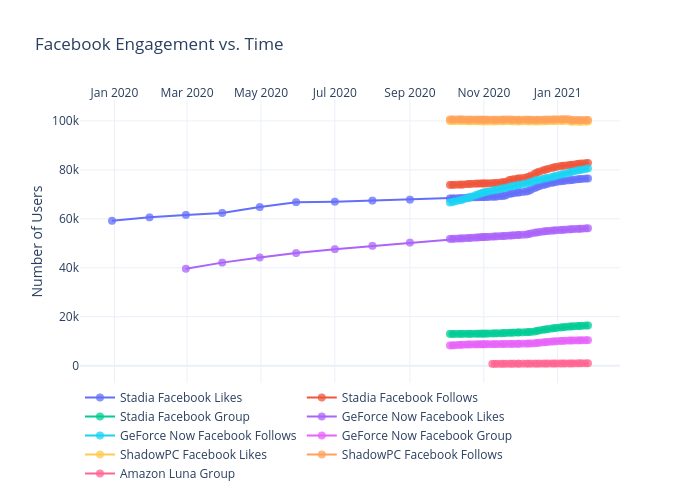
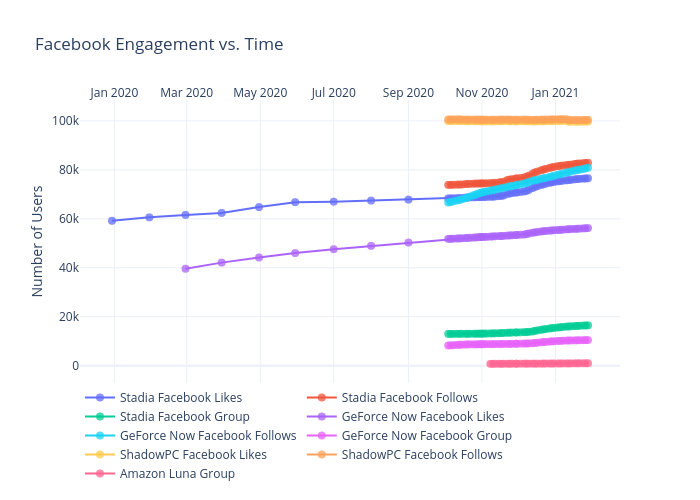
Add files via upload

diff --git a/facebook/figure.js b/facebook/figure.js
@@ -151,7 +151,8 @@ var figure = {
                 "76238",
                 "76316",
                 "76412",
-                "76492"
+                "76492",
+                "76551"
             ],
             "marker": {
                 "size": 8,
@@ -312,7 +313,8 @@ var figure = {
                 "82528",
                 "82622",
                 "82738",
-                "82819"
+                "82819",
+                "82885"
             ],
             "marker": {
                 "size": 8,
@@ -473,7 +475,8 @@ var figure = {
                 "16228",
                 "16292",
                 "16381",
-                "16419"
+                "16419",
+                "16481"
             ],
             "marker": {
                 "size": 8,
@@ -634,7 +637,8 @@ var figure = {
                 "55931",
                 "55988",
                 "56082",
-                "56140"
+                "56140",
+                "56214"
             ],
             "marker": {
                 "size": 8,
@@ -795,7 +799,8 @@ var figure = {
                 "79898",
                 "80105",
                 "80347",
-                "80609"
+                "80609",
+                "80875"
             ],
             "marker": {
                 "size": 8,
@@ -956,7 +961,8 @@ var figure = {
                 "10353",
                 "10383",
                 "10411",
-                "10420"
+                "10420",
+                "10459"
             ],
             "marker": {
                 "size": 8,
@@ -1117,7 +1123,8 @@ var figure = {
                 "99653",
                 "99685",
                 "99715",
-                "99737"
+                "99737",
+                "99755"
             ],
             "marker": {
                 "size": 8,
@@ -1278,7 +1285,8 @@ var figure = {
                 "100325",
                 "100357",
                 "100388",
-                "100410"
+                "100410",
+                "100428"
             ],
             "marker": {
                 "size": 8,
@@ -1439,7 +1447,8 @@ var figure = {
                 "962",
                 "973",
                 "971",
-                "976"
+                "976",
+                "977"
             ],
             "marker": {
                 "size": 8,
@@ -1458,8 +1467,8 @@ var figure = {
             "side": "top",
             "type": "date",
             "range": [
-                "2019-12-05 16:49:27.8148",
-                "2021-02-19 07:10:32.1852"
+                "2019-12-05 13:51:23.6815",
+                "2021-02-21 10:08:36.3185"
             ],
             "title": {
                 "text": ""
